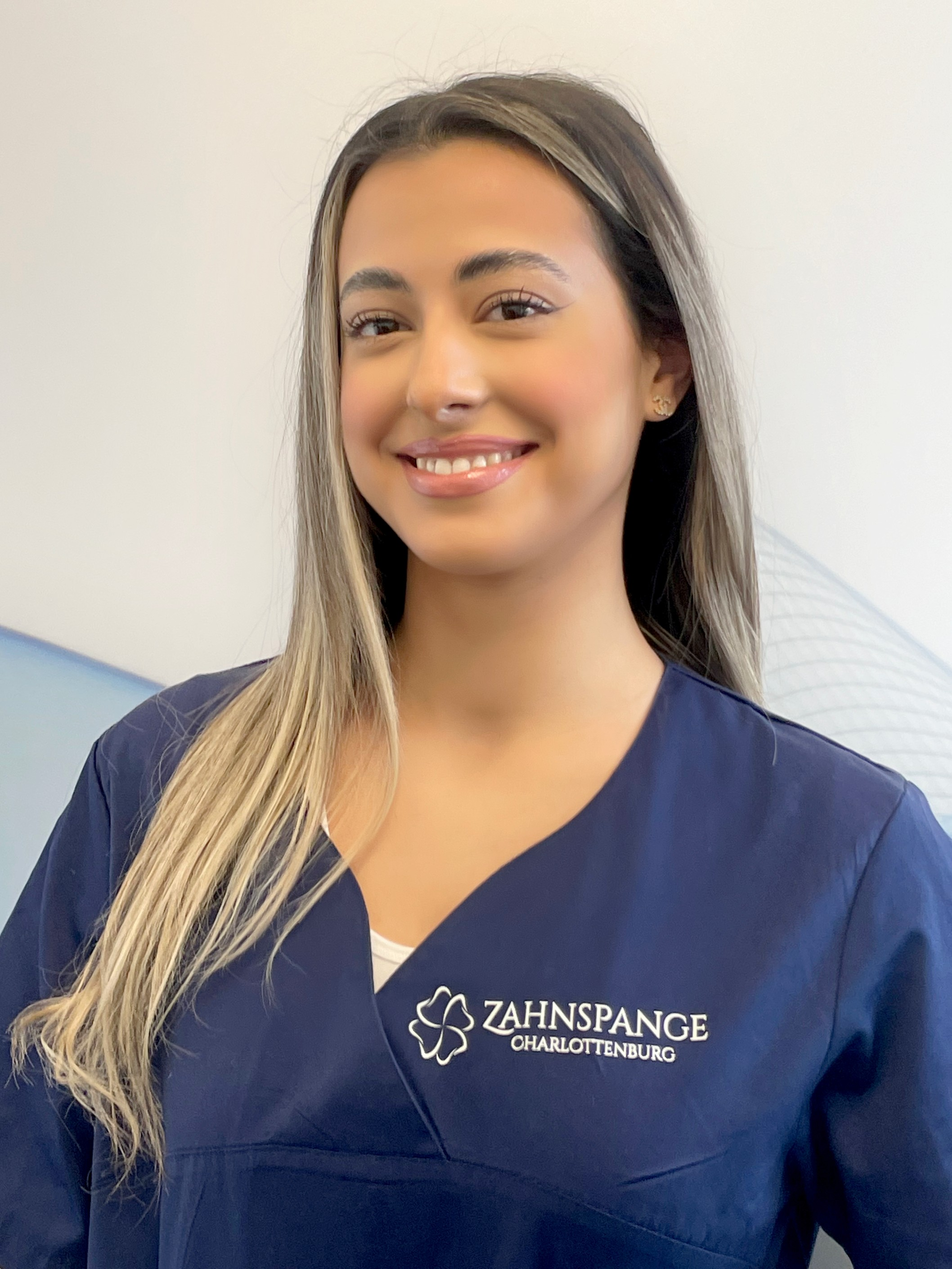
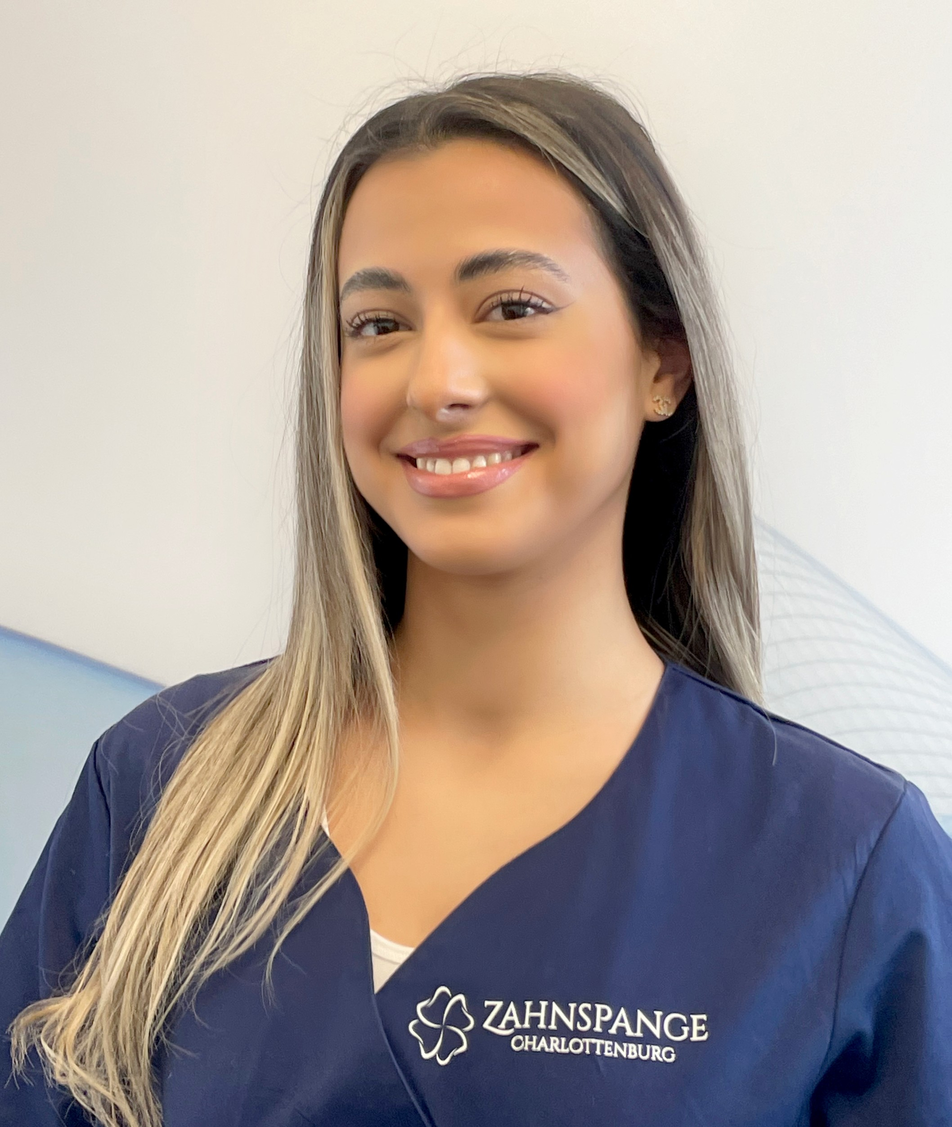
edit nurses pictures and wilcome title font size

diff --git a/src/styles/components/WaveSection.scss b/src/styles/components/WaveSection.scss
@@ -30,7 +30,7 @@
   display: flex;
   flex-direction: column;
   align-items: center;
-  justify-content: center;
+  justify-content: space-evenly;
   .WaveSection-content {
     font-weight: 400;
     font-family: "Merri-sans";
@@ -60,17 +60,17 @@
   }
   .welcome-waves {
     width: 100%;
-    height: 35%;
+    height: 30%;
     background-image: url("../../imgs/waves.jpg");
     background-size: cover;
     background-position: center;
     background-repeat: no-repeat;
   }
   .WaveSection-content-container {
-    height: 50%;
+    height: 55%;
     display: flex;
-    align-items: flex-start;
-    justify-content: center;
+    align-items: center;
+    justify-content: space-evenly;
     // background-color: red;
     .WaveSection-content {
       font-weight: 400;

diff --git a/src/styles/components/NurseCard.scss b/src/styles/components/NurseCard.scss
@@ -24,7 +24,7 @@
     align-items: center;
     justify-content: center;
     .nurse-img {
-      width: 325px;
+      width: 354px;
       height: 425px;
       border-radius: 24px;
       box-shadow: rgba(0, 0, 0, 0.06) 0px 2px 4px 0px inset;
@@ -64,7 +64,6 @@
         font-family: "Merri";
       }
       .job-container {
-
         width: 100%;
         height: 50%;
         display: flex;
@@ -76,7 +75,7 @@
         // background-color: red;
         p {
           color: $gray-5;
-          letter-spacing: .5px;
+          letter-spacing: 0.5px;
           // margin-left: 8px;
           font-weight: 700;
         }

diff --git a/src/styles/pages/Home.scss b/src/styles/pages/Home.scss
@@ -30,7 +30,7 @@
 
   .welcome-title-container {
     width: 100%;
-    height: 15%;
+    height: 22%;
     // border: 1px solid black;
     display: flex;
     align-items: flex-start;
@@ -39,13 +39,13 @@
     // border: 1px solid black;
 
     .welcome-title {
-      width: 1060px;
+      width: 80%;
       height: 100%;
-      font-size: $xxxx-large;
+      font-size: 42px;
       letter-spacing: 1px;
       color: $dark-blue;
       font-weight: 900;
-      line-height: 42px;
+      line-height: 58px;
       font-family: "Merri";
       // background-color: red;
     }
